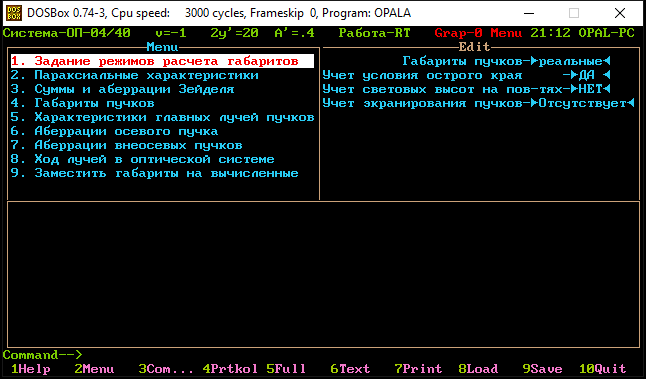
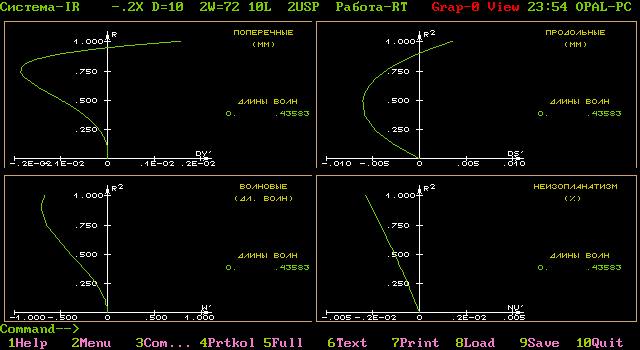
checkpoint: g2 auto 00:15

diff --git a/docs/tasks/TASK_OPCOM3.md b/docs/tasks/TASK_OPCOM3.md
@@ -1,0 +1,33 @@
+# TASK_OPCOM3: G2-продолжение — добить экспорт .PRN (горячий старт #2)
+
+## Состояние (читай analysis/REVERSE_G2_GOLDEN.md — там ВСЁ)
+Прошлый заход (убит таймаутом в 23:46) уже добился:
+- ✅ Полный путь запуска: KEYRUS→OPAL.COM→F5→ENTER(OPALA)→F10→«Сист»→F2/ENTER→
+  загрузка US00KI02 из OPAL.ARH → «Анализ»→Работа-RT → '4' (габариты) → '6' (аберрации)
+- ✅ Расчёт СОВПАЛ с эталоном RT__2236.PRN ПОСТРОЧНО (скрин g2_g11_item6.png)
+- ❌ БЛОКЕР: меню «Печать» (F7): «Не готов принтер. Вывести в файл?» → фриз клавиатуры
+- ✅ Вчера 20:00 F7→'2 Расчет' СОЗДАЛ RT__20_0.PRN (4149 б) — путь в принципе рабочий!
+
+## Цель: стабильный экспорт эталонных .PRN (хотя бы 2-3 системы: US00KI02 + любая другая)
+План прошлой сессии (§«Что дальше») — продолжай по нему:
+1. Воспроизвести ВЧЕРАШНИЕ условия успеха RT__20_0.PRN: PRINTER.REG=`pin=0;title;`
+   на месте, RT.REG=`GAB=4;WING=0;WINT=0;GR;`, чистый старт, F7→'2 Расчет'.
+   Сравни с golden/G2_NOTES.md (там разбор контекста вчерашнего успеха).
+2. Имя файла: если поле «Имя файла:» само дописывает .PRN — вводи БЕЗ расширения
+   (RT__2254, не RT__2254.PRN — гипотеза про .PRN.PRN не проверена).
+3. F7→'3 Протокол' (копит все таблицы) / '4 Таблица' — альтернативные пункты.
+4. PRINTER.REG: pin=1 и другие значения до диалога.
+5. Если LPT-статус фризит — попробуй в dosbox_golden.conf: parallel1=file:C:\GOLDEN_DOS\LPT1.CAP,
+   parallel1=disabled (перенаправит диалог в файл?), или parallel2=file:... — экспериментируй.
+6. Крайний случай (честно пометив как реконструкцию в досье): снять значения с экрана
+   (уже сняты для US00KI02) и сгенерировать .PRN по формату эталона.
+
+## ПРАВИЛО ЧЕКПОИНТОВ (новое, важное!)
+- Каждые ~15 минут работы ОБНОВЛЯЙ analysis/REVERSE_G2_GOLDEN.md (что сделал, что нашёл).
+  Файл — твой живой лог. Снаружи его автоматически коммитят.
+- Скрины → capture/ (префикс g2_), .PRN → analysis/reverse_data/golden/.
+- Досье REVERSE_OPCOM.md (§21) уже готово другим агентом — читай при необходимости,
+  НЕ редактируй его; свои находки пиши в REVERSE_G2_GOLDEN.md.
+- DOSBox-процессы прибивай за собой. В конце — коммит:
+  docs(reverse): G2 — стабильный экспорт .PRN (REVERSE_G2_GOLDEN.md)
+- НЕ трогай порт/REVERSE_TRACE.md.
